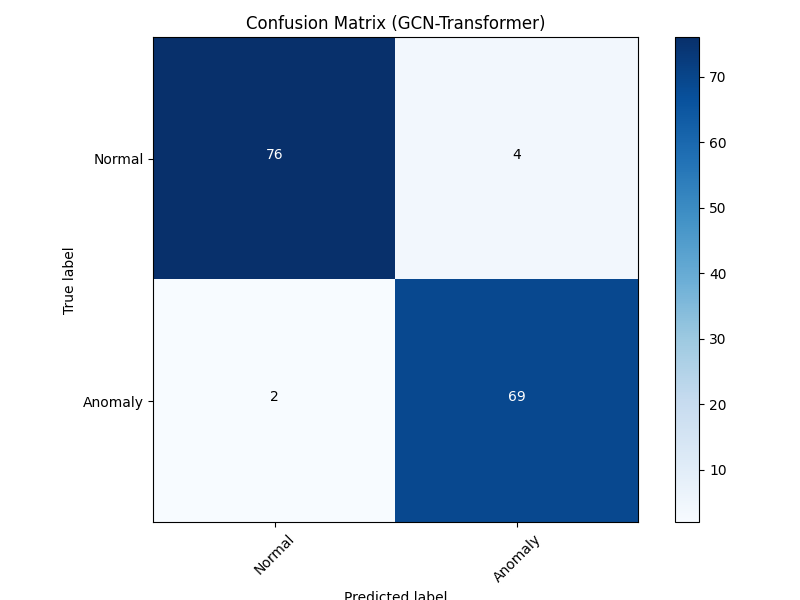
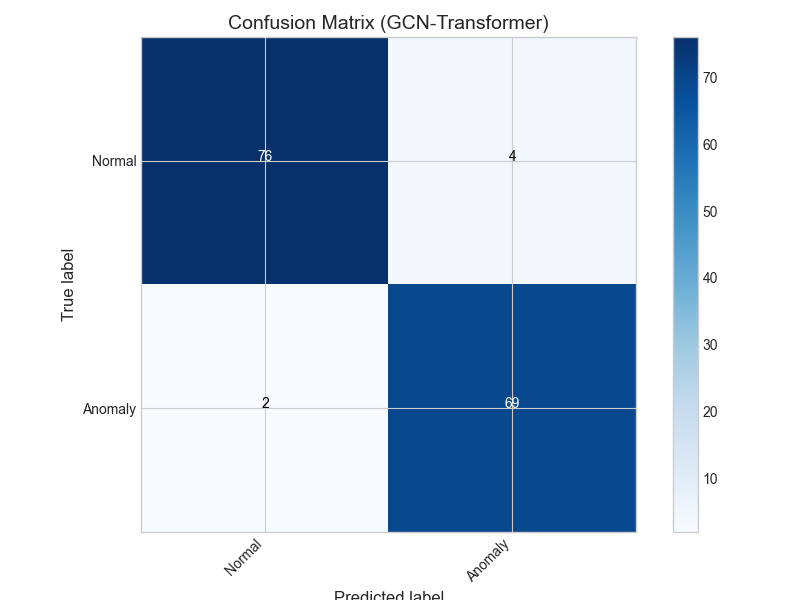
seaborn plots added

diff --git a/train.py b/train.py
@@ -16,8 +16,9 @@ from dataset import get_dataloaders_gcn
 from utils import calculate_threshold_gcn, evaluate_model_gcn, plot_reconstructions
 
 
-def plot_confusion_matrix(cm, classes, normalize=False, title='Confusion matrix', cmap='Blues'):
+def plot_confusion_matrix(cm, classes, plots_dir='plots', normalize=False, title='Confusion matrix', cmap='Blues'):
     """Plots the confusion matrix."""
+    plt.style.use('seaborn-v0_8-whitegrid')
     if normalize:
         cm = cm.astype('float') / cm.sum(axis=1)[:, np.newaxis]
         print("Normalized confusion matrix")
@@ -28,10 +29,10 @@ def plot_confusion_matrix(cm, classes, normalize=False, title='Confusion matrix'
 
     plt.figure(figsize=(8, 6))
     plt.imshow(cm, interpolation='nearest', cmap=cmap)
-    plt.title(title)
+    plt.title(title, fontsize=14)
     plt.colorbar()
     tick_marks = np.arange(len(classes))
-    plt.xticks(tick_marks, classes, rotation=45)
+    plt.xticks(tick_marks, classes, rotation=45, ha="right")
     plt.yticks(tick_marks, classes)
 
     fmt = '.2f' if normalize else 'd'
@@ -42,30 +43,40 @@ def plot_confusion_matrix(cm, classes, normalize=False, title='Confusion matrix'
                  color="white" if cm[i, j] > thresh else "black")
 
     plt.tight_layout()
-    plt.ylabel('True label')
-    plt.xlabel('Predicted label')
-    plt.savefig('confusion_matrix_gcn.png')
+    plt.ylabel('True label', fontsize=12)
+    plt.xlabel('Predicted label', fontsize=12)
+    os.makedirs(plots_dir, exist_ok=True)
+    save_path = os.path.join(plots_dir, 'confusion_matrix_gcn.png')
+    plt.savefig(save_path)
+    print(f"Confusion matrix saved to {save_path}")
     plt.close()
 
-def plot_performance_metrics(accuracy, precision, recall, f1):
+def plot_performance_metrics(accuracy, precision, recall, f1, plots_dir='plots'):
     """Plots the performance metrics as a bar chart."""
+    plt.style.use('seaborn-v0_8-whitegrid')
     metrics = {'Accuracy': accuracy, 'Precision': precision, 'Recall': recall, 'F1-Score': f1}
     names = list(metrics.keys())
     values = list(metrics.values())
 
     plt.figure(figsize=(8, 5))
-    plt.bar(names, values, color=['blue', 'green', 'orange', 'red'])
-    plt.xlabel("Metrics")
-    plt.ylabel("Score")
-    plt.title("Performance Metrics (GCN-Transformer)")
-    plt.ylim([0, 1]) # Scores are between 0 and 1
-    for i, v in enumerate(values):
-        plt.text(i, v + 0.02, f"{v:.4f}", ha='center', va='bottom')
-    plt.savefig('performance_metrics_gcn.png')
+    colors = sns.color_palette("viridis", len(names))
+    bars = plt.bar(names, values, color=colors)
+    plt.xlabel("Metrics", fontsize=12)
+    plt.ylabel("Score", fontsize=12)
+    plt.title("Performance Metrics (GCN-Transformer)", fontsize=14)
+    plt.ylim([0, 1.1])
+    for i, bar in enumerate(bars):
+        yval = bar.get_height()
+        plt.text(bar.get_x() + bar.get_width()/2.0, yval + 0.01, f"{yval:.4f}", va='bottom', ha='center', fontsize=10)
+
+    os.makedirs(plots_dir, exist_ok=True)
+    save_path = os.path.join(plots_dir, 'performance_metrics_gcn.png')
+    plt.savefig(save_path)
+    print(f"Performance metrics plot saved to {save_path}")
     plt.close()
 
 def train_gcn(model, train_loader, val_loader, criterion, optimizer, device,
-            num_epochs, patience, node_features, adj_matrix):
+            num_epochs, patience, node_features, adj_matrix, plots_dir='plots'):
     """Training loop for GCN-Transformer model with early stopping."""
     best_val_loss = float('inf')
     epochs_no_improve = 0
@@ -124,8 +135,10 @@ def train_gcn(model, train_loader, val_loader, criterion, optimizer, device,
         if avg_val_loss < best_val_loss:
             best_val_loss = avg_val_loss
             epochs_no_improve = 0
-            torch.save(model.state_dict(), 'best_gcn_transformer_autoencoder.pth')
-            print(f'Validation loss decreased. Saving best model.')
+            os.makedirs('models', exist_ok=True)
+            model_save_path = os.path.join('models', 'best_gcn_transformer_autoencoder.pth')
+            torch.save(model.state_dict(), model_save_path)
+            print(f'Validation loss decreased. Saving best model to {model_save_path}.')
         else:
             epochs_no_improve += 1
             print(f'Validation loss did not improve for {epochs_no_improve} epoch(s).')
@@ -136,26 +149,31 @@ def train_gcn(model, train_loader, val_loader, criterion, optimizer, device,
 
     print('Finished Training')
     # Plot training/validation loss
+    plt.style.use('seaborn-v0_8-whitegrid')
     plt.figure(figsize=(10, 5))
     plt.plot(train_losses, label='Training Loss')
     plt.plot(val_losses, label='Validation Loss')
-    plt.xlabel('Epochs')
-    plt.ylabel('Loss')
-    plt.title('Training and Validation Loss Over Epochs (GCN-Transformer)')
+    plt.xlabel('Epochs', fontsize=12)
+    plt.ylabel('Loss', fontsize=12)
+    plt.title('Training and Validation Loss Over Epochs (GCN-Transformer)', fontsize=14)
     plt.legend()
-    plt.savefig('loss_plot_gcn.png')
+    plt.grid(True)
+    os.makedirs(plots_dir, exist_ok=True)
+    loss_plot_path = os.path.join(plots_dir, 'loss_plot_gcn.png')
+    plt.savefig(loss_plot_path)
+    print(f"Loss plot saved to {loss_plot_path}")
     plt.close()
 
 if __name__ == "__main__":
-    parser = argparse.ArgumentParser(description="Train GCN-Transformer Autoencoder for Anomaly Detection")
+    parser = argparse.ArgumentParser(description="Train or Evaluate GCN-Transformer Autoencoder for Anomaly Detection")
     parser.add_argument('--data_dir', type=str, default='dishwasher-dataset', help='Directory containing dataset files')
     parser.add_argument('--appliance_col', type=int, default=2, help='Index of the appliance energy column')
     parser.add_argument('--scale_data', type=bool, default=True, help='Apply MinMaxScaler to data')
     parser.add_argument('--test_data_type', type=str, default='high_energy', help='Type of unhealthy data for testing')
-    parser.add_argument('--epochs', type=int, default=50, help='Number of training epochs')
+    parser.add_argument('--epochs', type=int, default=50, help='Number of training epochs (ignored if --load_model is used)')
     parser.add_argument('--batch_size', type=int, default=32, help='Batch size')
-    parser.add_argument('--lr', type=float, default=0.001, help='Learning rate')
-    parser.add_argument('--patience', type=int, default=20, help='Early stopping patience')
+    parser.add_argument('--lr', type=float, default=0.001, help='Learning rate (ignored if --load_model is used)')
+    parser.add_argument('--patience', type=int, default=20, help='Early stopping patience (ignored if --load_model is used)')
     parser.add_argument('--no_gpu', action='store_true', help='Disable GPU usage')
     parser.add_argument('--d_model', type=int, default=64, help='Transformer model dimension')
     parser.add_argument('--nhead', type=int, default=4, help='Number of attention heads')
@@ -166,11 +184,19 @@ if __name__ == "__main__":
     parser.add_argument('--n_clusters', type=int, default=10, help='Number of clusters/states for graph nodes')
     parser.add_argument('--gcn_hidden_dim', type=int, default=64, help='Hidden dimension for GCN layers')
     parser.add_argument('--gcn_out_dim', type=int, default=32, help='Output dimension for GCN state embeddings')
-    parser.add_argument('--gcn_layers', type=int, default=8, help='Number of GCN layers (Note: 8 is deep, consider 2-4 if training is slow/unstable)')
+    parser.add_argument('--gcn_layers', type=int, default=8, help='Number of GCN layers')
     parser.add_argument('--threshold_percentile', type=int, default=95, help='Percentile for anomaly threshold')
-    parser.add_argument('--plot_results', action='store_true', default=True, help='Plot confusion matrix and metrics')
+    parser.add_argument('--plot_results', action='store_true', default=True, help='Plot confusion matrix, metrics, and reconstructions')
+    parser.add_argument('--plots_dir', type=str, default='plots', help='Directory to save plots')
+    parser.add_argument('--model_dir', type=str, default='models', help='Directory containing the saved model')
+    parser.add_argument('--model_filename', type=str, default='best_gcn_transformer_autoencoder.pth', help='Filename of the saved model')
+    parser.add_argument('--skip_training', action='store_true', default=True, help='Skip training and load model directly for evaluation')
 
     args = parser.parse_args()
+
+    # --- Create Directories ---
+    os.makedirs(args.plots_dir, exist_ok=True)
+    # model dir creation is handled in train_gcn or implicitly by loading
 
     # --- Check for PyTorch Geometric ---
     if GCNConv is None:
@@ -186,11 +212,12 @@ if __name__ == "__main__":
 
     # --- Load Data & Construct Graph ---
     print("Loading data and constructing graph...")
+    # Note: Graph construction still happens based on healthy training data split
     train_loader, val_loader, test_loader, scaler, kmeans_model, node_features, adj_matrix, seq_len, input_dim = get_dataloaders_gcn(
         data_dir=args.data_dir,
         appliance_col=args.appliance_col,
         batch_size=args.batch_size,
-        val_split=0.2,
+        val_split=0.2, # Validation split is used for thresholding even when loading model
         test_data_type=args.test_data_type,
         scale_data=args.scale_data,
         n_clusters=args.n_clusters
@@ -201,7 +228,7 @@ if __name__ == "__main__":
     if node_features is None or adj_matrix is None:
          raise ValueError("Graph construction failed. Check healthy training data and n_clusters.")
 
-    # --- Initialize Model, Criterion, Optimizer ---
+    # --- Initialize Model ---
     print("Initializing GCN-Transformer model...")
     model = GCNTransformerAutoencoder(
         input_dim=input_dim,
@@ -215,23 +242,40 @@ if __name__ == "__main__":
         gcn_hidden_dim=args.gcn_hidden_dim,
         gcn_out_dim=args.gcn_out_dim,
         gcn_layers=args.gcn_layers,
-        dropout=args.dropout
+        dropout=args.dropout # Dropout is typically disabled during eval automatically by model.eval()
     ).to(device)
 
-    criterion = nn.L1Loss(reduction='mean') # MAE loss
-    optimizer = optim.Adam(model.parameters(), lr=args.lr)
+    # --- Load or Train Model ---
+    model_path = os.path.join(args.model_dir, args.model_filename)
 
-    # --- Train Model ---
-    print("Starting training...")
-    train_gcn(model, train_loader, val_loader, criterion, optimizer, device,
-              args.epochs, args.patience, node_features, adj_matrix)
+    if args.skip_training:
+        if os.path.exists(model_path):
+            print(f"Skipping training. Loading model from {model_path}...")
+            model.load_state_dict(torch.load(model_path, map_location=device))
+        else:
+            print(f"Error: Model file not found at {model_path}. Cannot skip training.")
+            print("Please train the model first or provide the correct path.")
+            exit(1)
+    else:
+        print("Starting training...")
+        criterion = nn.L1Loss(reduction='mean') # MAE loss
+        optimizer = optim.Adam(model.parameters(), lr=args.lr)
+        train_gcn(model, train_loader, val_loader, criterion, optimizer, device,
+                  args.epochs, args.patience, node_features, adj_matrix, plots_dir=args.plots_dir)
+        # After training, load the best saved model for evaluation
+        print(f"Loading best trained model from {model_path} for evaluation...")
+        if os.path.exists(model_path):
+            model.load_state_dict(torch.load(model_path, map_location=device))
+        else:
+            print(f"Warning: Best model file {model_path} not found after training. Evaluation might use the last state.")
 
-    # --- Load Best Model ---
-    print("Loading best model for evaluation...")
-    model.load_state_dict(torch.load('best_gcn_transformer_autoencoder.pth', map_location=device))
 
     # --- Calculate Threshold ---
+    # Threshold calculation requires a trained model and validation data
     print("Calculating anomaly threshold...")
+    # Criterion is needed for threshold calculation, define it here if training was skipped
+    if args.skip_training:
+         criterion = nn.L1Loss(reduction='mean')
     threshold = calculate_threshold_gcn(model, val_loader, device, criterion,
                                        node_features, adj_matrix,
                                        percentile=args.threshold_percentile)
@@ -268,17 +312,18 @@ if __name__ == "__main__":
 
         # --- Plot Results ---
         if args.plot_results:
-            print("Plotting results...")
+            print(f"Plotting results to directory: {args.plots_dir}...")
             try:
                 cm = confusion_matrix(true_labels, predictions, labels=[0, 1])
-                plot_confusion_matrix(cm, classes=target_names, title='Confusion Matrix (GCN-Transformer)')
-                plot_performance_metrics(accuracy, precision, recall, f1)
-                # Call the new reconstruction plotting function
+                plot_confusion_matrix(cm, classes=target_names, plots_dir=args.plots_dir, title='Confusion Matrix (GCN-Transformer)')
+                plot_performance_metrics(accuracy, precision, recall, f1, plots_dir=args.plots_dir)
+                # Call the reconstruction plotting function (ensure it also saves to plots_dir)
                 plot_reconstructions(
                     val_loader, sample_recons_test, model, device,
-                    node_features, adj_matrix, scaler # Pass scaler if used
+                    node_features, adj_matrix, scaler, # Pass scaler if used
+                    plots_dir=args.plots_dir # Pass plots_dir
                 )
-                print("Plots saved as confusion_matrix_gcn.png, performance_metrics_gcn.png, and reconstruction_examples_gcn.png")
+                # Print statement updated in individual plot functions
             except Exception as e:
                 print(f"Error during plotting: {e}")
 

diff --git a/utils.py b/utils.py
@@ -5,6 +5,9 @@ import math
 from tqdm import tqdm
 import matplotlib.pyplot as plt
 import os
+from sklearn.cluster import KMeans
+from scipy.stats import entropy
+import seaborn as sns
 
 class PositionalEncoding(nn.Module):
     """Injects positional information into the input embeddings."""
@@ -121,85 +124,93 @@ def evaluate_model_gcn(model, test_loader, device, criterion, threshold, node_fe
     return np.array(true_labels), np.array(predictions), np.array(test_losses), sample_reconstructions
 
 
-def plot_reconstructions(val_loader, sample_recons_test, model, device, node_features, adj_matrix, scaler=None, n_examples=1):
+def plot_reconstructions(val_loader, sample_recons_test, model, device, node_features, adj_matrix, scaler=None, n_examples=1, plots_dir='plots'):
     """Plots original vs. reconstructed signals for normal and anomalous examples."""
-    print("Generating reconstruction plots...")
-    plt.figure(figsize=(15, 10))
-    num_plots = 0
+    print(f"Generating reconstruction plots to {plots_dir}...")
+    plt.style.use('seaborn-v0_8-whitegrid') # Use a modern style
 
-    # 1. Plot Anomalous Example (from test set evaluation)
+    # Define consistent colors
+    original_color = '#1f77b4' # Muted Blue
+    reconstructed_color = '#ff7f0e' # Safety Orange
+    anomaly_color = '#d62728' # Muted Red for original anomaly
+
+    fig, axes = plt.subplots(2, 1, figsize=(12, 8), sharex=True) # Slightly adjusted size
+    plot_count = 0
+
+    # --- Plot Anomalous Example --- 
+    ax1 = axes[0]
     if sample_recons_test['anomaly']:
-        num_plots += 1
-        plt.subplot(2, 1, num_plots) # Adjust subplot grid if adding more examples
         original = sample_recons_test['anomaly']['original']
         reconstructed = sample_recons_test['anomaly']['reconstructed']
         loss = sample_recons_test['anomaly']['loss']
 
-        # Inverse transform if scaler exists
         if scaler:
             original = scaler.inverse_transform(original.reshape(-1, 1)).flatten()
             reconstructed = scaler.inverse_transform(reconstructed.reshape(-1, 1)).flatten()
 
-        plt.plot(original, label='Original Anomalous Signal', color='red', alpha=1.0)
-        plt.plot(reconstructed, label=f'Reconstructed (Loss: {loss:.4f})', color='blue', linestyle='--')
-        plt.title("Anomalous Dishwasher Cycle vs. Reconstruction")
-        plt.xlabel("Time Steps")
-        plt.ylabel("Power Consumption")
-        plt.legend()
-        plt.grid(True)
+        ax1.plot(original, label='Original Anomalous Signal', color=anomaly_color, linewidth=1.5)
+        ax1.plot(reconstructed, label=f'Reconstructed (Loss: {loss:.4f})', color=reconstructed_color, linestyle='--', linewidth=1.5)
+        ax1.set_title("Anomalous Dishwasher Cycle vs. Reconstruction", fontsize=14)
+        ax1.set_ylabel("Power Consumption", fontsize=12)
+        ax1.legend()
+        ax1.grid(True, which='both', linestyle='--', linewidth=0.5)
+        plot_count += 1
     else:
         print("No anomalous sample found/returned from evaluation to plot.")
+        ax1.text(0.5, 0.5, 'No anomalous sample available', horizontalalignment='center', verticalalignment='center', transform=ax1.transAxes)
+        ax1.set_title("Anomalous Dishwasher Cycle vs. Reconstruction", fontsize=14)
 
-
-    # 2. Plot Normal Example (fetch from validation loader)
+    # --- Plot Normal Example --- 
+    ax2 = axes[1]
     model.eval()
     normal_found = False
     with torch.no_grad():
-        for batch in val_loader: # Iterate through val_loader to find a sample
+        # Only iterate enough to find one normal example
+        for batch in val_loader:
             seq = batch['sequence'].to(device)
             state_idx = batch['state_index'].to(device)
             labels = batch['label'].cpu().numpy()
-
-            # Ensure graph components are on the correct device
             node_features = node_features.to(device)
             adj_matrix = adj_matrix.to(device)
-
             output = model(seq, state_idx, node_features, adj_matrix)
 
-            # Find the first normal sample in the batch
             for i in range(seq.size(0)):
                 if labels[i] == 0: # Found a normal sample
-                    num_plots += 1
-                    plt.subplot(2, 1, num_plots)
                     original = seq[i].cpu().numpy()
                     reconstructed = output[i].cpu().numpy()
-                    # Calculate loss for this specific sample
                     loss = nn.L1Loss()(torch.tensor(reconstructed), torch.tensor(original)).item()
 
                     if scaler:
                         original = scaler.inverse_transform(original.reshape(-1, 1)).flatten()
                         reconstructed = scaler.inverse_transform(reconstructed.reshape(-1, 1)).flatten()
 
-                    plt.plot(original, label='Original Normal Signal', color='red', alpha=1.0)
-                    plt.plot(reconstructed, label=f'Reconstructed (Loss: {loss:.4f})', color='blue', linestyle='--')
-                    plt.title("Normal Dishwasher Cycle vs. Reconstruction")
-                    plt.xlabel("Time Steps")
-                    plt.ylabel("Power Consumption")
-                    plt.legend()
-                    plt.grid(True)
+                    ax2.plot(original, label='Original Normal Signal', color=original_color, linewidth=1.5)
+                    ax2.plot(reconstructed, label=f'Reconstructed (Loss: {loss:.4f})', color=reconstructed_color, linestyle='--', linewidth=1.5)
+                    ax2.set_title("Normal Dishwasher Cycle vs. Reconstruction", fontsize=14)
+                    ax2.set_xlabel("Time Steps", fontsize=12)
+                    ax2.set_ylabel("Power Consumption", fontsize=12)
+                    ax2.legend()
+                    ax2.grid(True, which='both', linestyle='--', linewidth=0.5)
                     normal_found = True
-                    break # Only need one normal example
+                    plot_count += 1
+                    break
             if normal_found:
-                break # Exit val_loader loop
+                break
 
     if not normal_found:
-         print("Could not find a normal sample in the first batch of val_loader to plot.")
+        print("Could not find a normal sample in the validation set to plot.")
+        ax2.text(0.5, 0.5, 'No normal sample found in validation set', horizontalalignment='center', verticalalignment='center', transform=ax2.transAxes)
+        ax2.set_title("Normal Dishwasher Cycle vs. Reconstruction", fontsize=14)
 
-
-    plt.tight_layout(pad=2.0) # Add padding between subplots
-    plt.savefig("reconstruction_examples_gcn.png")
-    print("Reconstruction plots saved to reconstruction_examples_gcn.png")
-    plt.close()
+    # --- Final Touches --- 
+    fig.tight_layout(pad=2.0)
+    
+    # Ensure plots directory exists
+    os.makedirs(plots_dir, exist_ok=True)
+    save_path = os.path.join(plots_dir, "reconstruction_examples_gcn.png")
+    plt.savefig(save_path)
+    print(f"Reconstruction plots saved to {save_path}")
+    plt.close(fig) # Close the specific figure
 
 # --- Original Transformer Utilities (Keep if needed, otherwise remove) ---
 # def calculate_threshold(...)
